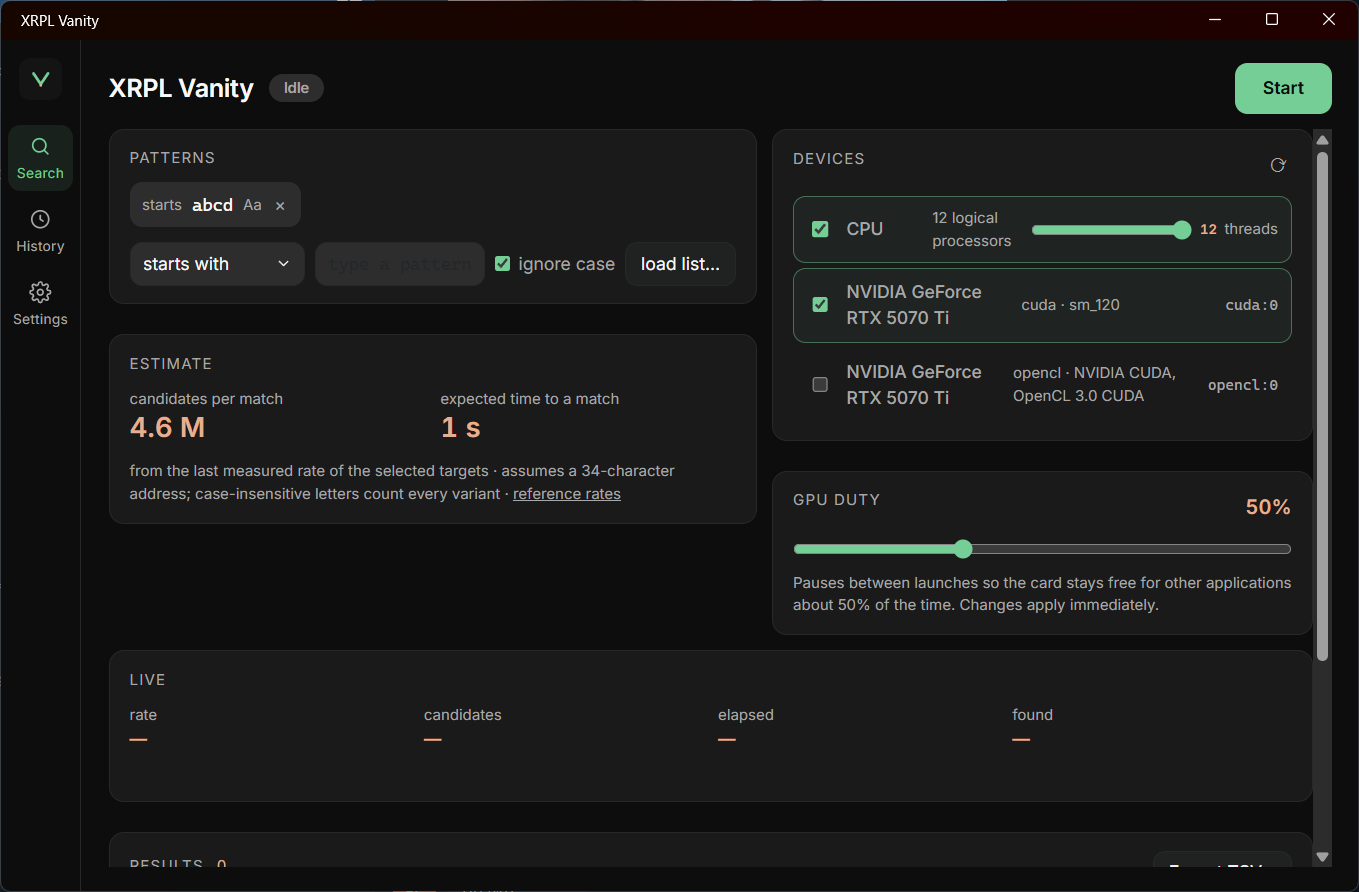
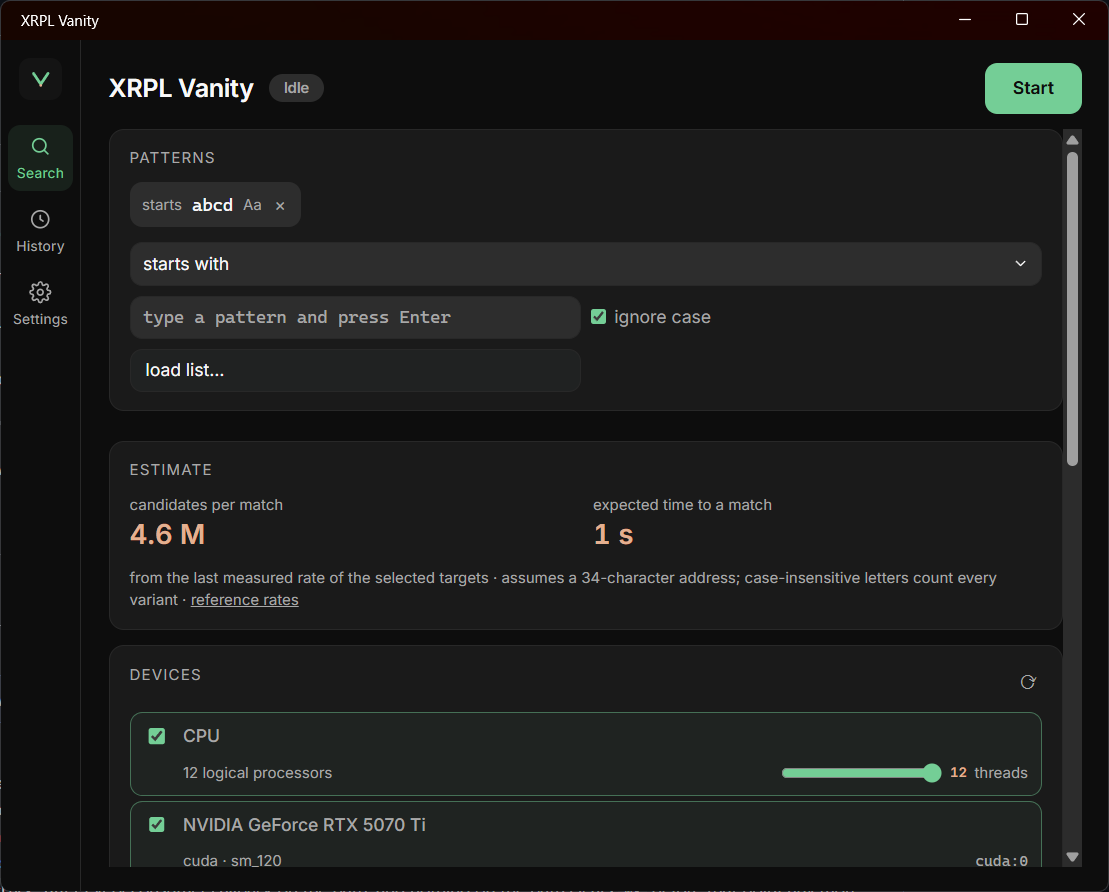
fix(app): the results snapshot is rebuilt lazily and placeholders keep the palette colour

diff --git a/src/XrplVanity.App.Core/wwwroot/scss/common/_forms.scss b/src/XrplVanity.App.Core/wwwroot/scss/common/_forms.scss
@@ -39,7 +39,14 @@ select:focus {
   outline: none;
 }
 
-::placeholder {
+// A bare ::placeholder (specificity 0,0,0) loses to the vendored bootstrap.min.css rule
+// .form-control::placeholder (0,1,0), which paints a near-black --bs-secondary-color. Match
+// Bootstrap's own selectors (plus input/textarea for controls it doesn't style) so this rule
+// cannot be outranked.
+.form-control::placeholder,
+.form-select::placeholder,
+input::placeholder,
+textarea::placeholder {
   color: var(--text-secondary);
   opacity: 1;
 }

diff --git a/src/XrplVanity.App.Core/ViewModels/SearchViewModel.cs b/src/XrplVanity.App.Core/ViewModels/SearchViewModel.cs
@@ -27,6 +27,7 @@ public sealed class SearchViewModel : IDisposable
     private readonly List<SessionResult> _results = new();
     private readonly List<StoredResult> _pendingPersist = new();
     private IReadOnlyList<SessionResult> _resultsSnapshot = Array.Empty<SessionResult>();
+    private bool _resultsDirty;
     private SessionResult? _lastMatch;
     private string? _historyWriteError;
     private int _unnotifiedMatches;
@@ -74,13 +75,31 @@ public sealed class SearchViewModel : IDisposable
     public IReadOnlyList<TargetChoice> Targets { get { lock (_gate) return _targets.ToArray(); } }
 
     /// <summary>
-    /// A cached snapshot rebuilt under <c>_gate</c> only where the underlying result list actually
-    /// changes (<see cref="Start"/> clearing it, <see cref="OnMatch"/> inserting into it) — the
-    /// same instance is returned between changes, so a consumer that keys state off a "did the
-    /// list change" reference comparison (e.g. <c>ResultsList</c>) does not see a false positive on
-    /// every unrelated re-render (a progress tick, for instance).
+    /// A cached snapshot rebuilt lazily on read, under <c>_gate</c>, only when the underlying
+    /// result list actually changed since the last read (<see cref="Start"/> clearing it,
+    /// <see cref="OnMatch"/> inserting into it just flag <see cref="_resultsDirty"/> instead of
+    /// rebuilding) — the same instance is returned between changes, so a consumer that keys state
+    /// off a "did the list change" reference comparison (e.g. <c>ResultsList</c>) does not see a
+    /// false positive on every unrelated re-render (a progress tick, for instance). Deferring the
+    /// O(n) copy out of <see cref="OnMatch"/> keeps that lock — shared by every CPU worker and GPU
+    /// engine — held for O(1) work per match.
     /// </summary>
-    public IReadOnlyList<SessionResult> Results { get { lock (_gate) return _resultsSnapshot; } }
+    public IReadOnlyList<SessionResult> Results
+    {
+        get
+        {
+            lock (_gate)
+            {
+                if (_resultsDirty)
+                {
+                    _resultsSnapshot = _results.ToArray();
+                    _resultsDirty = false;
+                }
+
+                return _resultsSnapshot;
+            }
+        }
+    }
 
     public SearchProgress? Progress => _progress;
     public SearchSummary? LastSummary { get; private set; }
@@ -316,6 +335,7 @@ public sealed class SearchViewModel : IDisposable
                 SearchRequest request = new(_patternSet!, targets, _count, _dutyPercent);
                 _results.Clear();
                 _resultsSnapshot = Array.Empty<SessionResult>();
+                _resultsDirty = false;
                 _pendingPersist.Clear();
                 _unnotifiedMatches = 0;
                 _lastMatch = null;
@@ -488,7 +508,7 @@ public sealed class SearchViewModel : IDisposable
         lock (_gate)
         {
             _results.Insert(0, result);
-            _resultsSnapshot = _results.ToArray();
+            _resultsDirty = true;
             _pendingPersist.Add(new StoredResult(result.Address, result.Seed, result.Pattern, result.Position, result.FoundAt, result.Target));
             _unnotifiedMatches++;
             _lastMatch = result;
